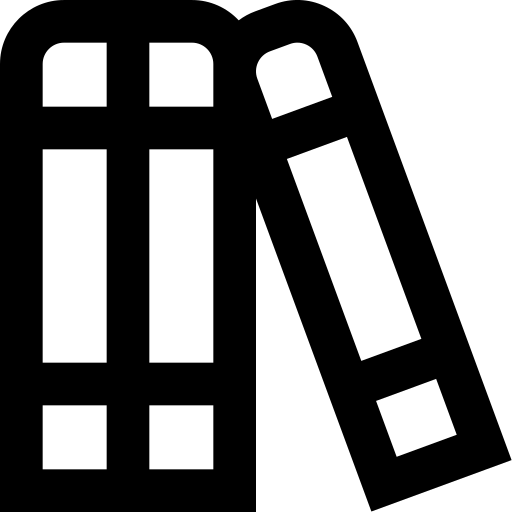
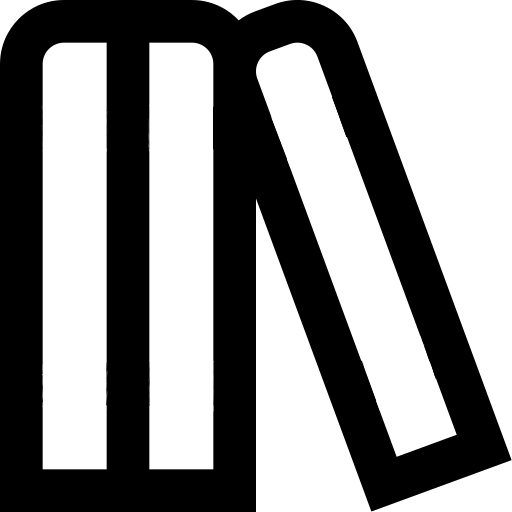
수정

diff --git a/kihibooks/src/main/resources/templates/layout/header.html b/kihibooks/src/main/resources/templates/layout/header.html
@@ -40,7 +40,7 @@
             <!-- </th:block> -->
             <!-- <th:block sec:authorize="isAuthenticated()"> 아직은 먼일 -->
                 <a class="p-2 mr-2" th:href="@{/}">
-                    <img class="mt-1" src="/resources/static/img/library3.png" alt="내 서재" style="height: 20px;">
+                    <img class="mt-1" src="/resources/static/img/library.png" alt="내 서재" style="height: 20px;">
                 </a>
                 <a class="p-2 mr-2" th:href="@{/}">
                     <img class="mt-1" src="/resources/static/img/user_profile.png" alt="프로필" style="height: 20px;">
